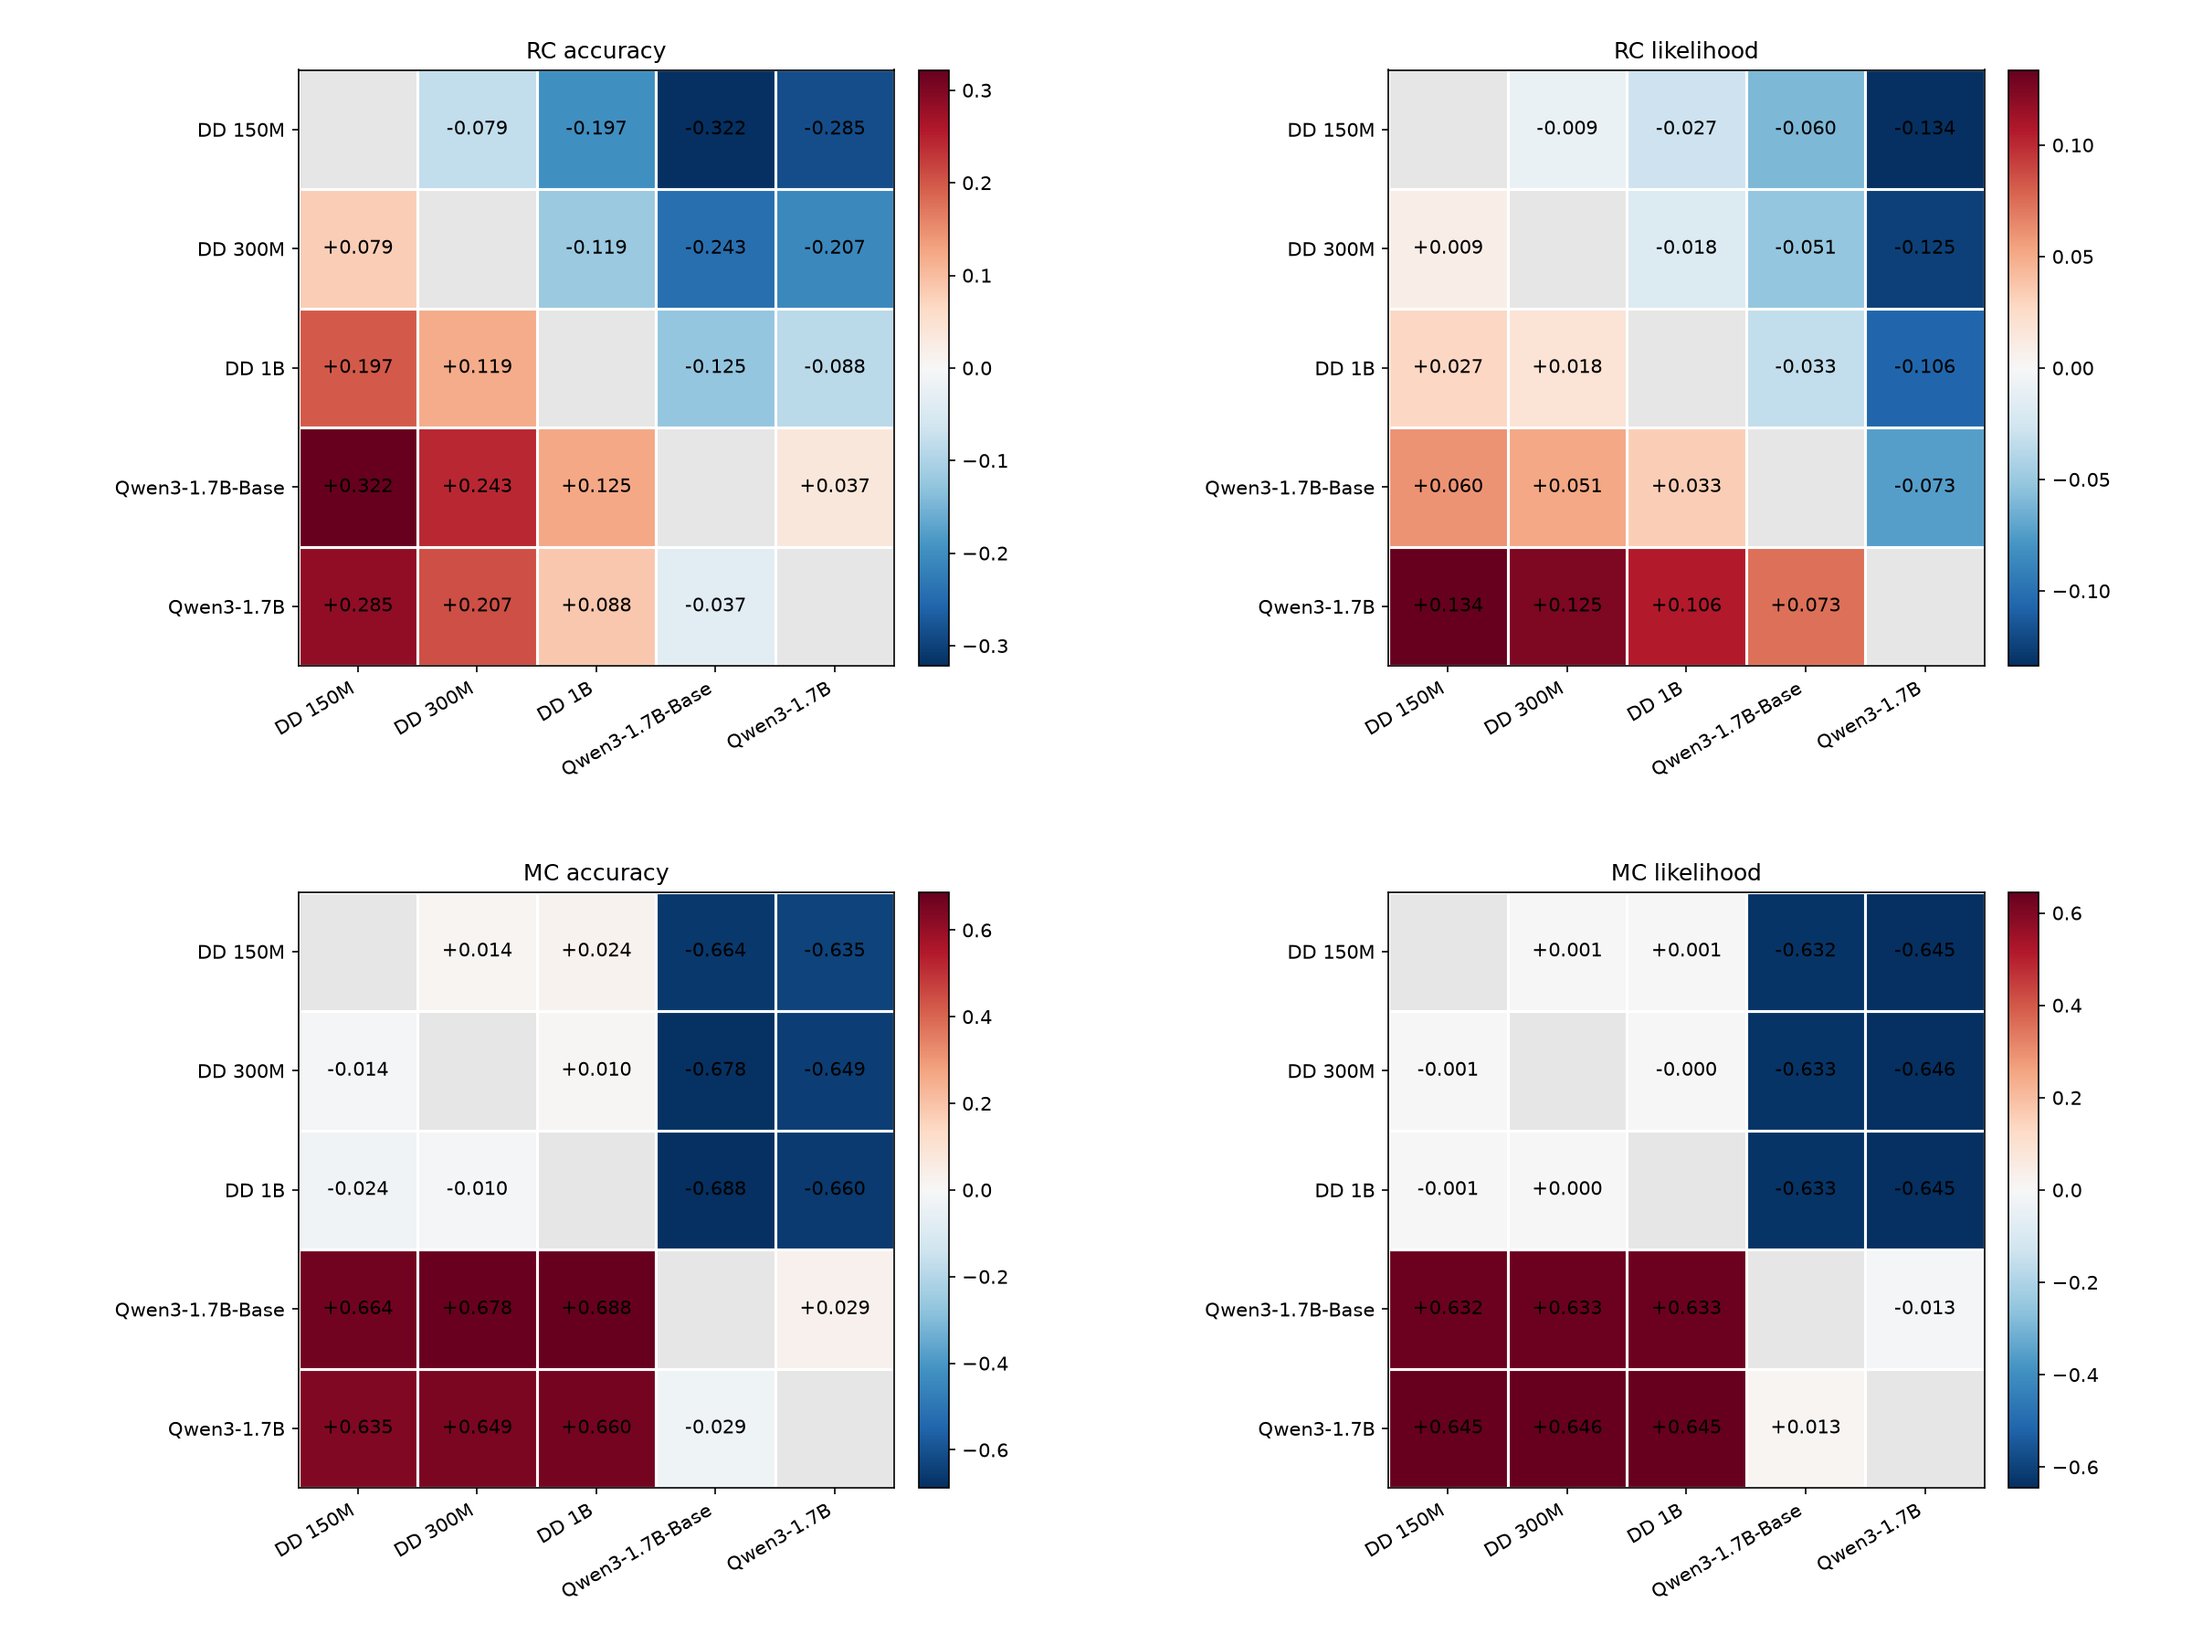
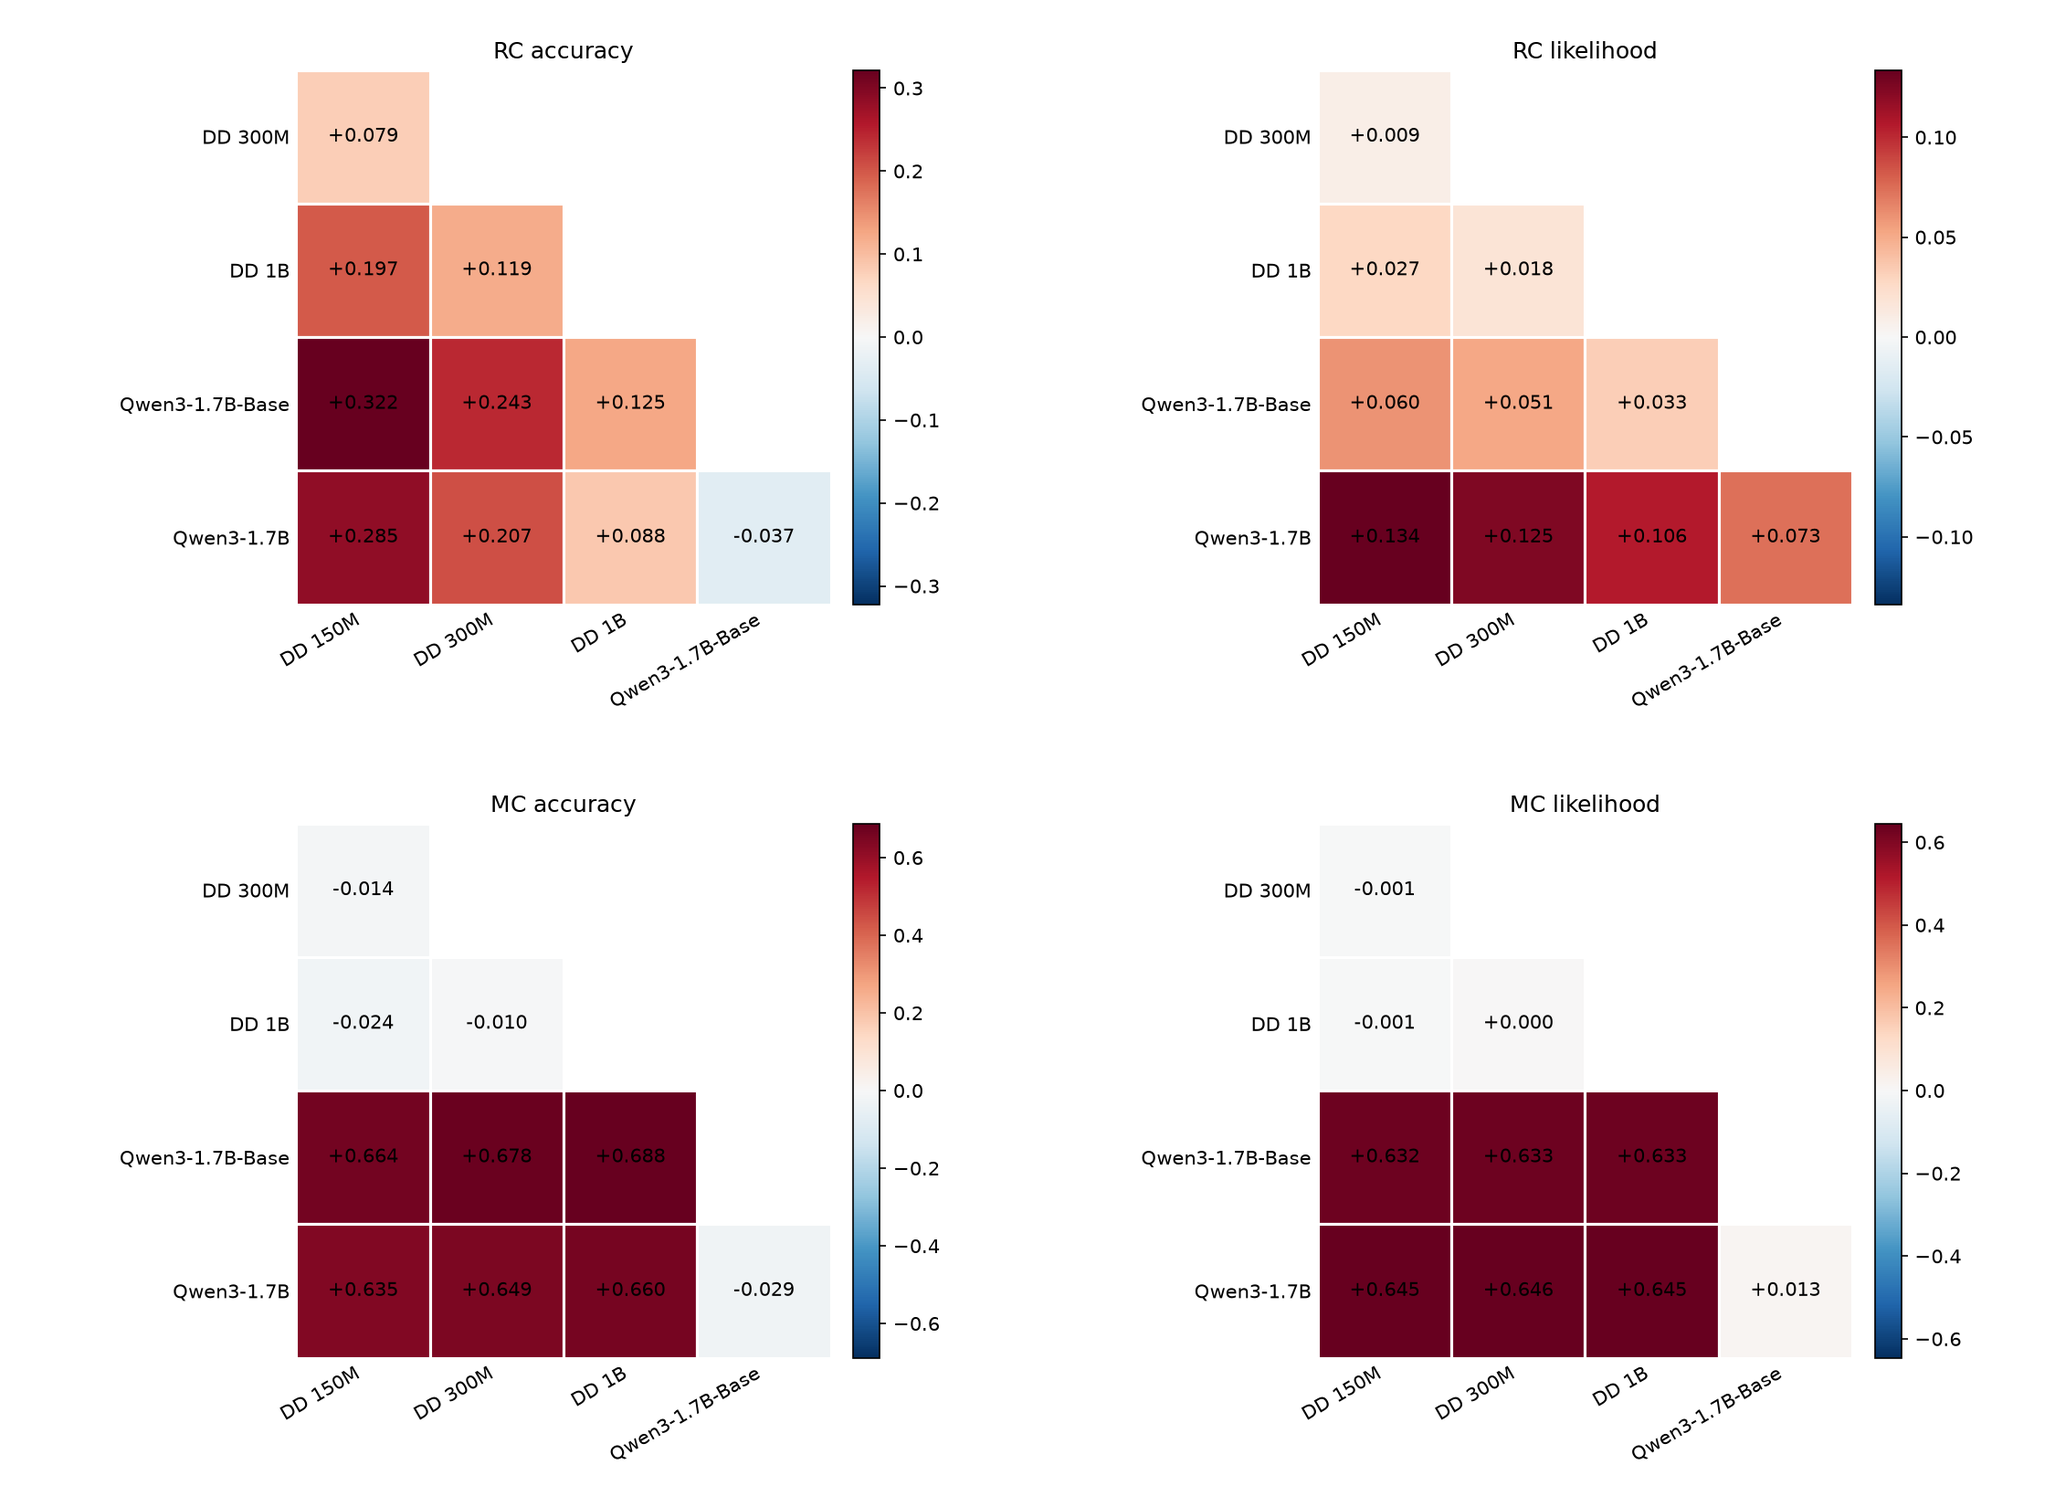
Summary heatmaps: lower triangle only, drawn cell by cell without the empty row and column

diff --git a/scripts/po_model_summary_plots.py b/scripts/po_model_summary_plots.py
@@ -2,7 +2,7 @@
 
 Inputs are items.csv files from po_subset_bootstrap.py (one per model, same items). Writes
 bars.png (full-set value per model per metric with a bootstrap 95% interval), diff_heatmap.png
-(paired row-minus-column differences, full matrix), power_heatmap.png (items needed for 80% power on each
+(paired row-minus-column differences, lower triangle), power_heatmap.png (items needed for 80% power on each
 paired difference), and summary.csv under --out.
 """
 
@@ -80,35 +80,41 @@ def main(
     fig.savefig(out / "bars.png", dpi=150)
 
     def heat(mat: np.ndarray, fname: str, fmt, cmap: str, center: bool, log: bool) -> None:
-        # 2x2 grid: rows = formulation (RC, MC), columns = accuracy, likelihood; full matrices, row minus column
+        # 2x2 grid: rows = formulation (RC, MC), columns = accuracy, likelihood. Lower triangle only
+        # (row minus column, rows names[1:], columns names[:-1]); cells are drawn individually so
+        # the unused triangle is plain background rather than empty grid cells.
+        from matplotlib.patches import Rectangle
         order = [["rc_primary", "rc_primary_likelihood"], ["mc_primary", "mc_primary_likelihood"]]
         k = len(names)
-        fig, axes = plt.subplots(2, 2, figsize=(2.4 * k + 4, 2.0 * k + 2), constrained_layout=True)
+        fig, axes = plt.subplots(2, 2, figsize=(2.4 * k + 3, 2.0 * k + 1), constrained_layout=True)
         fig.get_layout_engine().set(w_pad=0.6, h_pad=0.3)
         for row, keys in zip(axes, order, strict=True):
             for ax, key in zip(row, keys, strict=True):
                 si = SERIES.index(key)
                 m = mat[si]
                 plot = np.log10(m) if log else m
-                vmax = np.nanmax(np.abs(plot)) if center else np.nanmax(plot)
-                vmin = -vmax if center else np.nanmin(plot)
-                cm = matplotlib.colormaps[cmap].copy()
-                cm.set_bad("#e6e6e6")
-                im = ax.imshow(np.ma.masked_invalid(plot), cmap=cm, vmin=vmin, vmax=vmax)
-                for i in range(k):
-                    for j in range(k):
-                        if not np.isnan(m[i, j]):
-                            ax.text(j, i, fmt(m[i, j]), ha="center", va="center", fontsize=10)
-                ax.set_xticks(range(k))
-                ax.set_xticklabels(names, rotation=30, ha="right")
-                ax.set_yticks(range(k))
-                ax.set_yticklabels(names)
+                tri = [plot[i, j] for i in range(k) for j in range(k) if i > j]
+                vmax = max(abs(v) for v in tri) if center else max(tri)
+                vmin = -vmax if center else min(tri)
+                norm = matplotlib.colors.Normalize(vmin=vmin, vmax=vmax)
+                cm = matplotlib.colormaps[cmap]
+                for i in range(1, k):
+                    for j in range(i):
+                        ax.add_patch(Rectangle((j, i - 1), 1, 1, facecolor=cm(norm(plot[i, j])), edgecolor="white", lw=1.5))
+                        ax.text(j + 0.5, i - 0.5, fmt(m[i, j]), ha="center", va="center", fontsize=10)
+                ax.set_xlim(0, k - 1)
+                ax.set_ylim(k - 1, 0)
+                ax.set_aspect("equal")
+                ax.set_xticks(np.arange(k - 1) + 0.5)
+                ax.set_xticklabels(names[:-1], rotation=30, ha="right")
+                ax.set_yticks(np.arange(k - 1) + 0.5)
+                ax.set_yticklabels(names[1:])
+                ax.tick_params(length=0)
+                for sp in ax.spines.values():
+                    sp.set_visible(False)
                 ax.set_title(TITLES[key])
-                ax.set_xticks(np.arange(-0.5, k, 1), minor=True)
-                ax.set_yticks(np.arange(-0.5, k, 1), minor=True)
-                ax.grid(which="minor", color="white", lw=1.5)
-                ax.tick_params(which="minor", length=0)
-                cb = fig.colorbar(im, ax=ax, fraction=0.046, pad=0.03)
+                sm = matplotlib.cm.ScalarMappable(norm=norm, cmap=cm)
+                cb = fig.colorbar(sm, ax=ax, fraction=0.046, pad=0.03)
                 if log:
                     ticks = [t for t in range(int(np.ceil(vmin)), int(np.floor(vmax)) + 1)]
                     cb.set_ticks(ticks)
